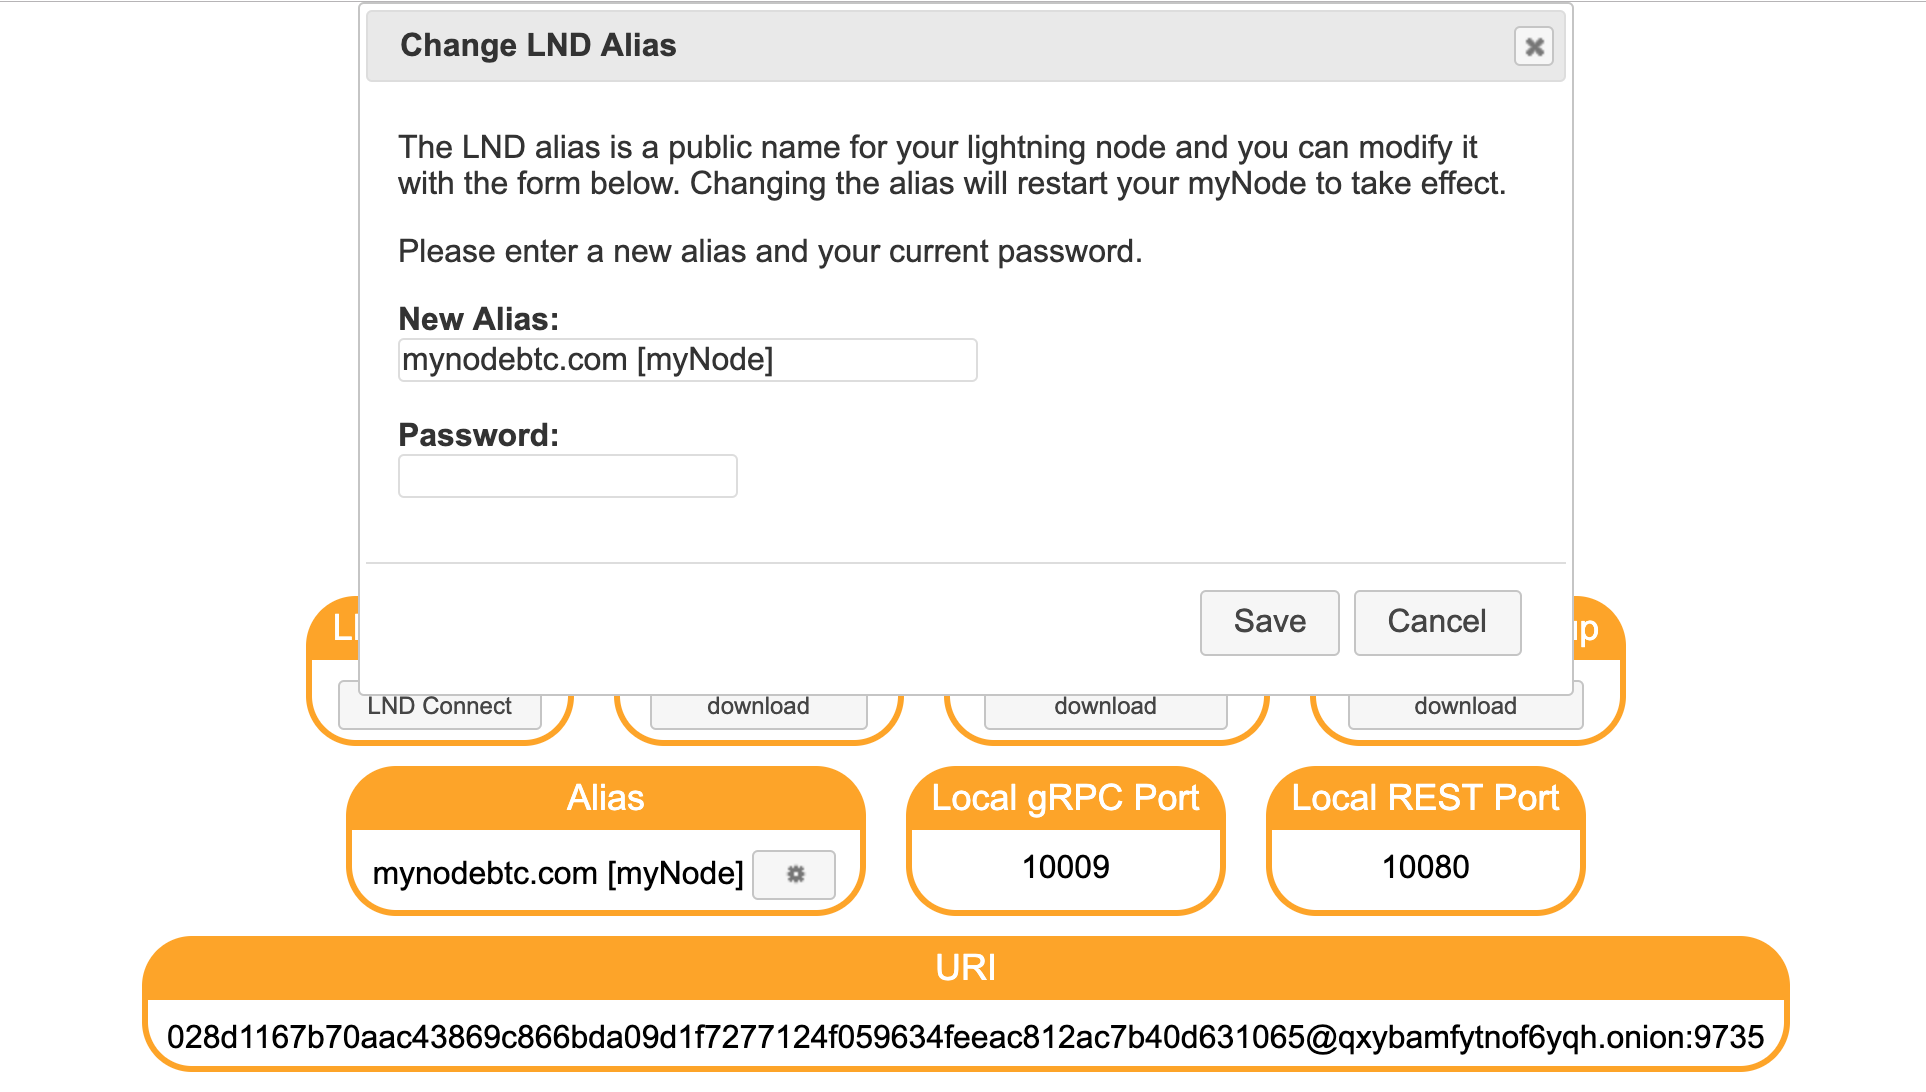
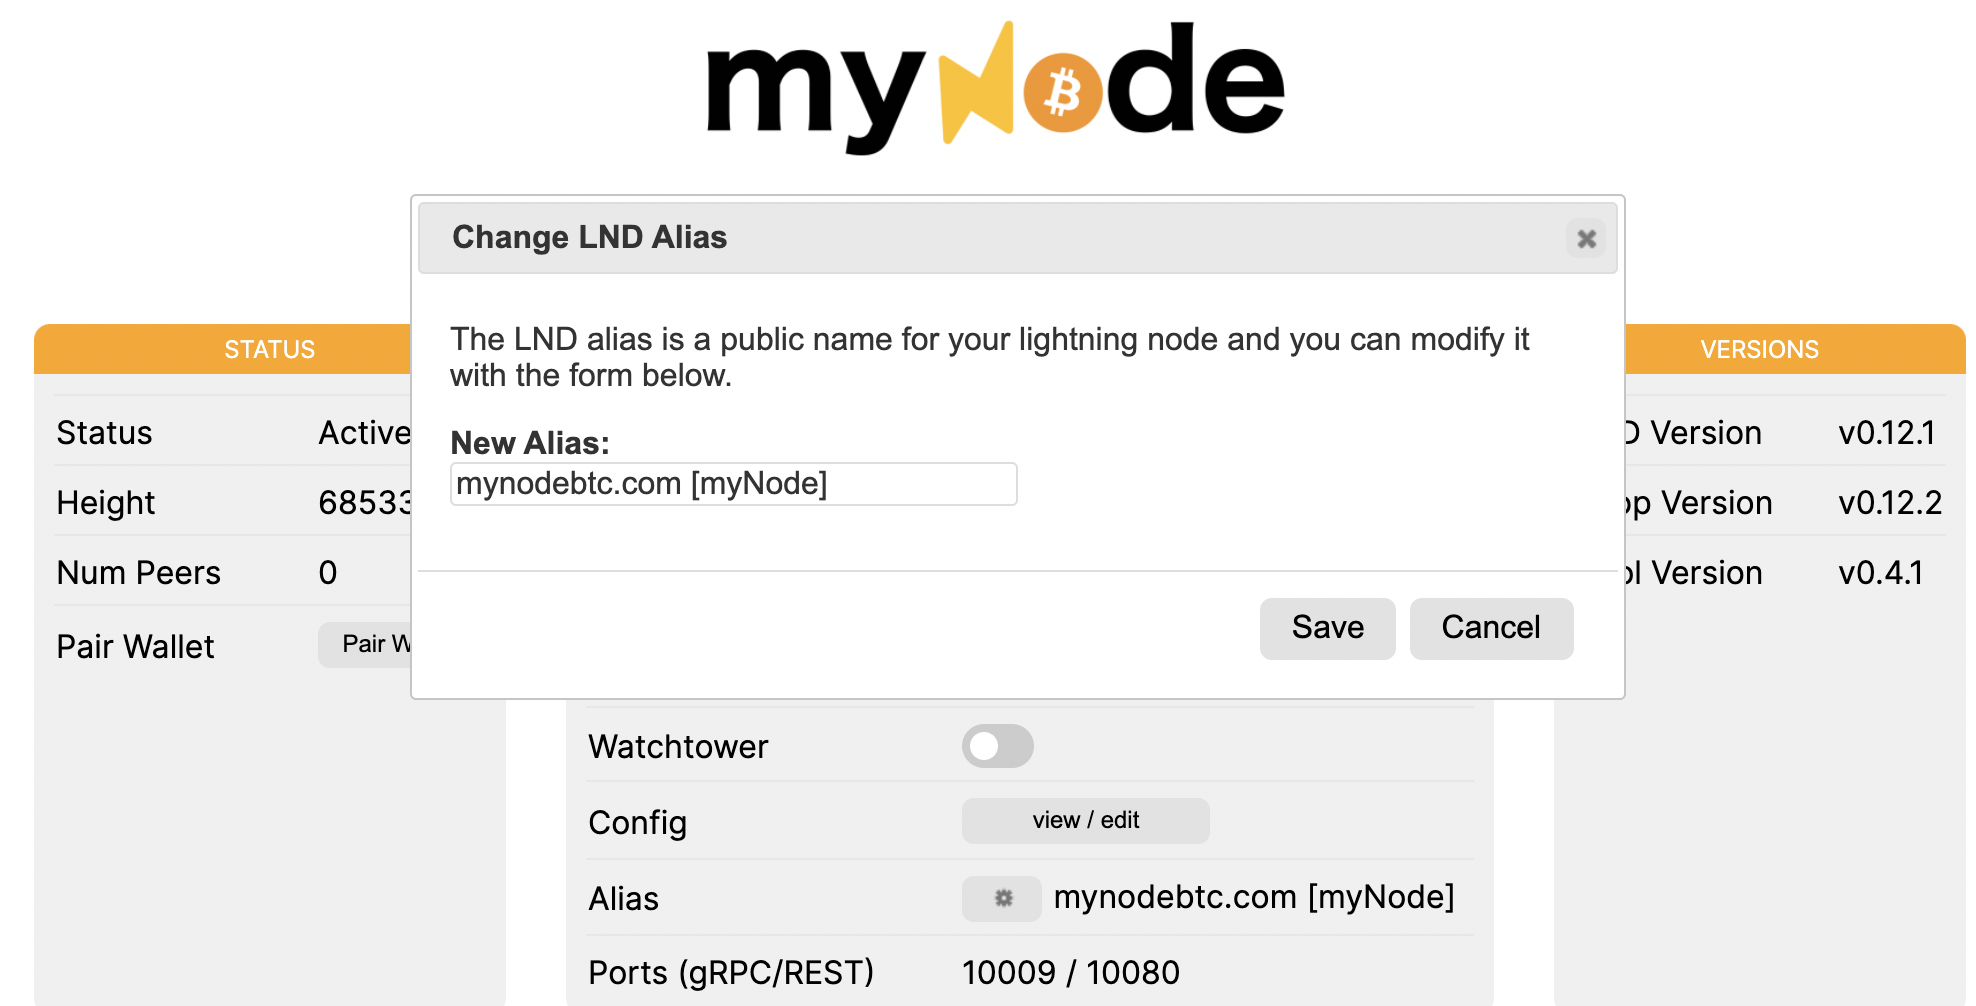
Lightning updates

diff --git a/docs/.vuepress/config.js b/docs/.vuepress/config.js
@@ -60,7 +60,7 @@ module.exports = {
           "/lightning/create",
           "/lightning/restore",
           "/lightning/lnd-alias",
-          "/lightning/lnd-connect",
+          "/lightning/pairing-wallets",
           '/lightning/lnd-hub',
           '/lightning/rtl',
           '/lightning/lnbits',

diff --git a/docs/lightning/create.md b/docs/lightning/create.md
@@ -1,6 +1,10 @@
 # Create Lightning Wallet
 
-To create a Lightning wallet on your myNode, first, click on the "Lightning Wallet" button on the main myNode page. Next click "Create Wallet" and you will be given a seed phrase. This phrase is critical and anyone with this phrase has access to your wallet. Please write this phrase down for a backup and do not share it with anyone! Click "Continue" after you have written down your seed phrase.
+To create a Lightning wallet on your myNode, first, click on the "Lightning Wallet" button on the main myNode page. Next click "Create Wallet" and you will be given a seed phrase.
+
+**This phrase is critical and anyone with this phrase has access to your wallet. Write this phrase down for a backup and do not share it with anyone!**
+
+Click "Continue" after you have written down your seed phrase.
 
 On the next page, re-enter your seed phrase to verify your backup has been created properly. Click "Create" to create your wallet!
 
@@ -12,4 +16,10 @@ If your phrase was correct, you will be sent back to the main Lightning page and
 
 Your Lightning wallet is now setup and ready to use!
 
-You can use your wallet via numerous interfaces. Please look into RTL, Zap, Blue Wallet and other options on our guides page!
+You can use your wallet via numerous interfaces. Check out the guides on look into RTL, Thunderhub, Blue Wallet and more!
+
+### Next Steps
+
+[Open Ride the Lightning](/lightning/rtl)
+
+[Open Thunderhub](/lightning/thunderhub)

diff --git a/docs/lightning/pairing-wallets.md b/docs/lightning/pairing-wallets.md
@@ -1,0 +1,30 @@
+# Pairing Wallets
+
+Various Lightning mobile apps can be paired with your node's Lightning instance. This allows the app to use the same channels and funds available on your myNode. Wallet apps can be paired with QR Codes and URLs that make connecting apps to a Lightning node very easy.
+
+First, make sure you have created a Lightning wallet and from the main myNode home page, click on the QR icon under Lighting. A link is also available on the Lightning page.
+
+<center>
+  <figure>
+    <img src="/images/lightning/pair-wallet-1.png">
+  </figure>
+</center>
+
+You will be prompted to enter your password. This prompt ensures you are securely accessing your device since anyone with your pairing codes can access your lighting wallet. Keep it secret!
+
+<center>
+  <figure>
+    <img src="/images/lightning/pair-wallet-2.png">
+  </figure>
+</center>
+
+Once on the Pair Wallet page, you will see a drop down menu to choose a pairing option. After choosing an option, a QR code and a URL will appear. These can be used to easily connect your myNode device to 3rd party Lightning wallets.
+
+<center>
+  <figure>
+    <img src="/images/lightning/pair-wallet-3.png" style="width: 300px">
+  </figure>
+</center>
+
+Have fun pairing your favorite lightning wallets!
+

diff --git a/docs/lightning/restore.md b/docs/lightning/restore.md
@@ -6,16 +6,21 @@ If you have created a Lighting Wallet in the past and need to recover it, you ca
 
 First, click on Manage under the Lightning app on the myNode home page.
 
-Then, click on "Restore Wallet from Seed" on the Lightning page.
+Then, click on "Restore Wallet from Seed" on the Lightning page. 
 
-![](/images/lightning/restore-1.png)
+**Note:** You will only see the Restore button if no wallet exists. If a wallet had been created, you will first need to delete the Lightning wallet via the settings page.
+
+<center>
+  <figure>
+    <img src="/images/lightning/restore-1.png" style="width: 300px">
+  </figure>
+</center>
 
 On the next page, enter your seed phrase and upload your Static Channel Backup (SCB) file. Click Create.
 
 ![](/images/lightning/restore-2.png)
 
-This will restore you on-chain balance, close all channels that had been opened, and restore those funds in you on chain wallet.
+This will restore you on-chain balance, close all channels that had been opened, and restore those funds in you on chain wallet. Seeing the channel funds appear may take a while.
 
 Your Lightning wallet is now setup and ready to use!
 
-![](/images/lightning/restore-3.png)

diff --git a/docs/lightning/lnd-alias.md b/docs/lightning/lnd-alias.md
@@ -4,6 +4,6 @@ Every Lightning node has a name that can be configured. By default, each myNode 
 
 ![](/images/lightning/alias-1.png)
 
-After clicking on the gear icon, you will be presented with a popup that allows you to change your node's alias. Enter the new alias, your password, and click Save. This will reboot your device and it will come with the new alias!
+After clicking on the gear icon, you will be presented with a popup that allows you to change your node's alias. Enter the new alias and click Save. This will reboot your device and it will come with the new alias!
 
 ![](/images/lightning/alias-2.png)
